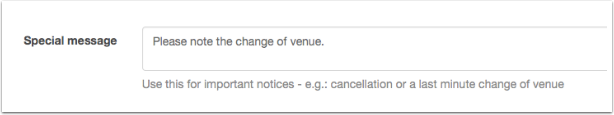
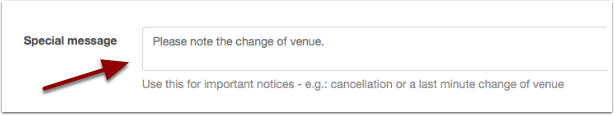
final draft for this release

Changed region(s): [[0.0619, 0.4957, 0.2166, 0.8348]]

diff --git a/docs/source/user/talk-editors/create-a-series.rst b/docs/source/user/talk-editors/create-a-series.rst
@@ -1,48 +1,94 @@
 Create a series of talks
 ========================
 
-A series of talks could be a Seminar Series, a Conference, a Workshop day or any other context within which talks take place.
+A series of talks could be a seminar series, a conference, a workshop or a similar event.
 
-Start entering the details of your first talk
----------------------------------------------
+via Add Talk
+------------
 
-.. image:: images/create-a-series/start-entering-the-details-of-your-first-talk.png
-   :alt: Start entering the details of your first talk
+.. image:: images/create-a-series/via-add-talk.png
+   :alt: via Add Talk
    :height: 314px
    :width: 674px
    :align: center
 
 
-#. Click **Add Talk** on the toolbar.
-#. Tick the series box.
+#. Click **Add Talk** on the toolbar and start adding your talk information
+#. Tick the **Series** box.
 #. Click the **New series** button.
-#. The Add new series form will pop up.
+#. The **Add a new series** form will pop up.
+#. Not all information about a series can be added via the pop up form - so you may need to go to the **Dashboard** to add further information later.
 
-Add the series details
-----------------------
+via the Dashboard
+-----------------
 
-.. image:: images/create-a-series/add-the-series-details.png
-   :alt: Add the series details
-   :height: 446px
-   :width: 663px
+.. image:: images/create-a-series/via-the-dashboard.png
+   :alt: via the Dashboard
+   :height: 241px
+   :width: 555px
    :align: center
 
 
-#. Choose a Series type - options at the moment are Seminar Series or Conference.
-#. If you like, you can add a phrase describing the timing - the usual time the seminars take place or the dates of a conference.
-#. A web address is optional - make sure you begin the address with http:// or https://.
-#. Start typing the department name and then select it from the drop down list.
+Creating a series via the **Dashboard** means you can add all the information about a series in one go:
 
-Save and continue
------------------
+#. Click **Dashboard** at the top of the screen
+#. Select **Series** from the filter on the left hand side
+#. The **New series** button should appear
+#. Click this to get the **New Series** form
 
-.. image:: images/create-a-series/save-and-continue.png
-   :alt: Save and continue
-   :height: 338px
+Title and Description
+---------------------
+
+.. image:: images/create-a-series/title-and-description.png
+   :alt: Title and Description
+   :height: 251px
+   :width: 501px
+   :align: center
+
+
+* Make sure your **Title** is not too generic - including the short name or acronymn of your department is helpful e.g.: 'WIMM Monday Seminars' rather than just 'Monday Seminars'
+* The text in the **Description** can be formatted - see :doc:`Formatting Text <formatting-the-abstract>` for more information
+
+Organisers and Organising Department
+------------------------------------
+
+.. image:: images/create-a-series/organisers-and-organising-department.png
+   :alt: Organisers and Organising Department
+   :height: 194px
    :width: 636px
    :align: center
 
 
-Once you click the **Save changes** button, you can continue adding your talk.
+Both the **Organisers** and **Organising department** fields work in the same way as for a talk, start typing to find the individual or unit you want.
 
-Your series will be now be available in the drop down list for your next talk.
+Now, when you create talks and assign them to this series, you'll find that they inherit the organisers and organising department.
+
+Timing and Web Address
+----------------------
+
+.. image:: images/create-a-series/timing-and-web-address.png
+   :alt: Timing and Web Address
+   :height: 159px
+   :width: 580px
+   :align: center
+
+
+* The **Timing** field allows you to add a short piece of text describing times and dates. For instance you might want to indicate that your Monday Seminars occur *every Monday in Full Term at 11am*.
+* Use the **Web address** field if your series or conference has a dedicated website or page. Remember to prefix the address with 'http://' or 'https://'.
+
+Saving
+------
+
+.. image:: images/create-a-series/saving.png
+   :alt: Saving
+   :height: 73px
+   :width: 668px
+   :align: center
+
+
+When you're ready, save the series by clicking either:
+
+* **Save and add another** to go straight to another New series form
+* **Done** to preview the series you've just created
+
+If you want to cancel your changes (before you save them) then just hit the **back** button in your browser.

diff --git a/docs/source/user/talk-editors/share-editing.rst b/docs/source/user/talk-editors/share-editing.rst
@@ -3,11 +3,11 @@ Sharing editing
 
 You can share the editing of a series or an individual talk with another Talk Editor
 
-Talks
------
+Series of Talks
+---------------
 
-.. image:: images/share-editing/talks.png
-   :alt: Talks
+.. image:: images/share-editing/series-of-talks.png
+   :alt: Series of Talks
    :height: 151px
    :width: 560px
    :align: center
@@ -15,15 +15,15 @@ Talks
 
 Start typing the email address of another Talks Editor in the **Other Editors** field.
 
-You may add as many editors as you like. The **Edit** button for the talk will then appear in the other editors' Dashboards 
+You may add as many editors as you like. The **Edit** button for the Series will then appear in the other editors' Dashboards 
 
 .. note::
 
-Note: the field will automatically complete if the Talks Editor has already been signed up to Oxford Talks. If their email doesn't appear, make sure they have been signed up.
+Note: the field will automatically complete only if the Talks Editor has already been signed up to Oxford Talks. If their email doesn't appear, make sure they have been signed up. For more information see :doc:`Apply to be a Talks Editor <sign-up>`.
 
-Series
-------
+Individual Talks
+----------------
 
-.. todo::
+If you share editing of a Series with a Talks Editor, then they will have the rights to edit all the Talks in that series too. 
 
-Sharing series - note that the sharing permissions extend down to the talks belonging to the series
+You can adjust this in the **Other Editors** field of the individual talk.

diff --git a/docs/source/user/talk-editors/formatting-the-abstract.rst b/docs/source/user/talk-editors/formatting-the-abstract.rst
@@ -1,14 +1,14 @@
-Formatting the abstract
-=======================
-
-Keywords in the talk abstract will be used for searching, so please add the abstract if you have it. 
+Formatting text
+===============
 
 Formatting using the Textile markup language
 --------------------------------------------
 
-The **Abstract** field uses the Textile markup language - the basics are very easy to remember:
+Text in the Talk **Abstract** field and the Series **Description** field can be formatted using Textile markup.
 
-**Headings**
+The basics are very easy to remember:
+
+**Headings** (Abstract only)
 
 ::
 
@@ -23,7 +23,14 @@ The **Abstract** field uses the Textile markup language - the basics are very ea
      
      This is a new paragraph.
 
-**Bullet Points and Numbered Lists**
+**Bold and Italic**
+
+::
+
+     *This will create bold text*
+     _This will create italics_
+
+**Bullet Points and Numbered Lists** (Abstract only)
 
 ::
 

diff --git a/docs/source/user/talk-editors/publicizing-your-talk.rst b/docs/source/user/talk-editors/publicizing-your-talk.rst
@@ -37,7 +37,12 @@ Once you've assigned a department or unit to a Series it will be automatically a
 
 If you choose a sub-department or unit, then the talk will also appear in the parent department and division listings.
 
-Public Lists [To Do]
---------------------
+Adding an abstract
+------------------
+
+Keywords in the talk abstract will be used for searching, so please add the abstract if you have it. 
+
+Public lists (coming soon)
+--------------------------
 
 As well as topic and department listings, there may be some more ad hoc listings you would like your talk to be included in.  In the next version of Oxford Talks, public lists can be created to collect together talks relevant to a particular theme, enterprise or project within the University - Athena Swan is a good example.

diff --git a/docs/source/user/talk-editors/people-details.rst b/docs/source/user/talk-editors/people-details.rst
@@ -36,11 +36,11 @@ Check details
 
 Click through to review details of their talks. Any changes you make to their entry will be reflected in **all these talks**.
 
-Person edit form
+Person Edit form
 ----------------
 
 .. image:: images/people-details/person-edit-form.png
-   :alt: Person edit form
+   :alt: Person Edit form
    :height: 229px
    :width: 614px
    :align: center

diff --git a/docs/source/user/talk-editors/last-minute-changes.rst b/docs/source/user/talk-editors/last-minute-changes.rst
@@ -15,6 +15,10 @@ Special message field
 
 The **Special message** field is intended just for this purpose. Messages here will appear prominently in the talk display.
 
-.. todo::
+.. image:: images/last-minute-changes/91bd3220-3b40-4e06-9621-e6a465321bde.png
+   :alt: 
+   :height: 370px
+   :width: 567px
+   :align: center
 
-Screenshot of where the message will appear
+

diff --git a/docs/source/user/talk-editors.rst b/docs/source/user/talk-editors.rst
@@ -2,7 +2,6 @@ Talk Editors
 ============
 
 .. toctree::
-   :maxdepth: 0
    
    talk-editors/sign-up
    talk-editors/create-a-talk
